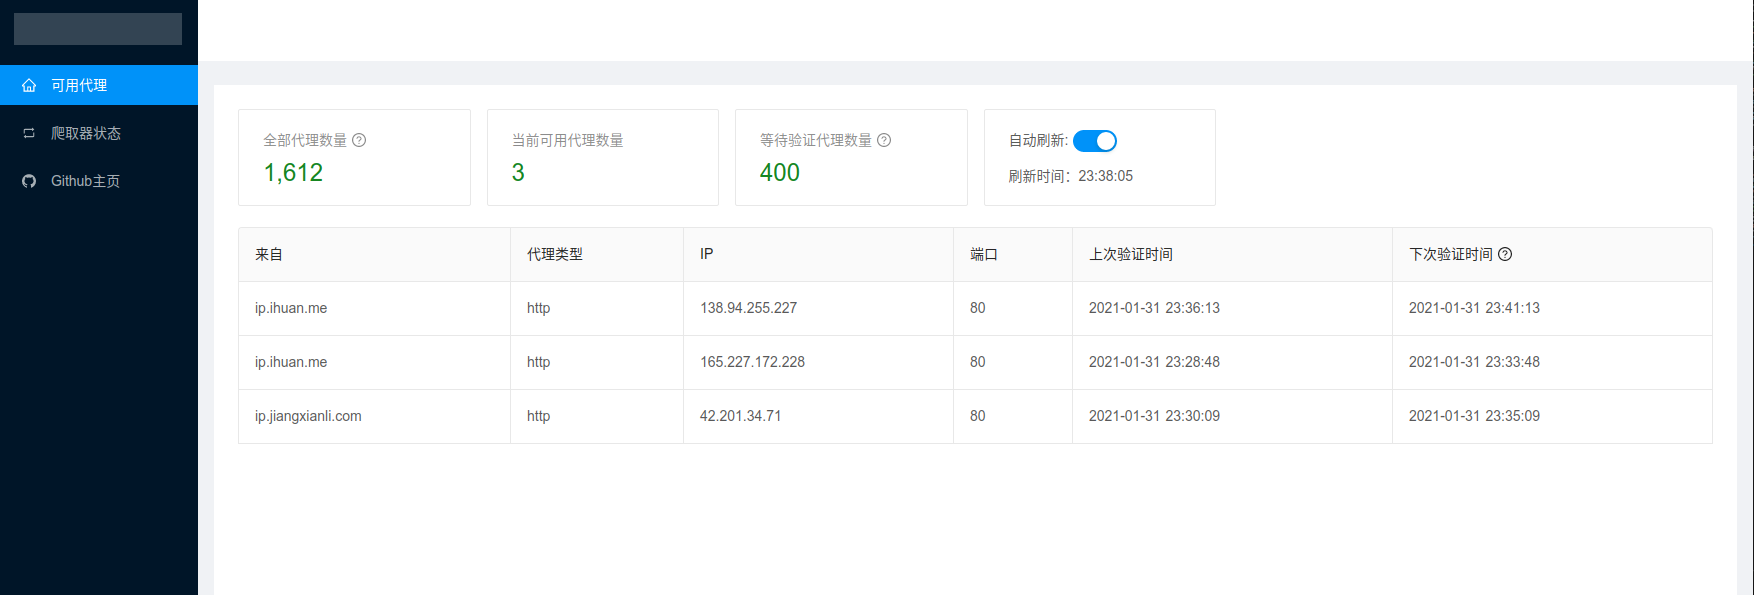
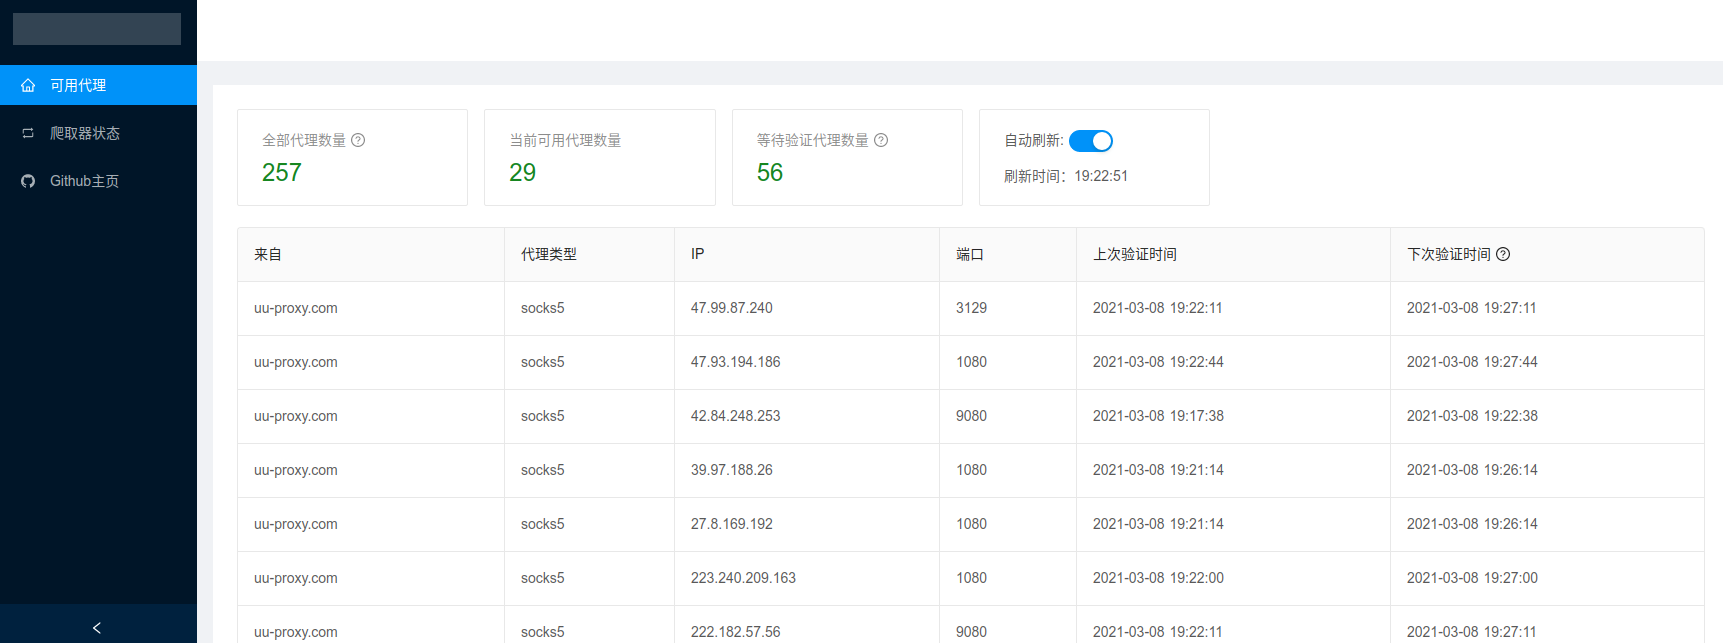
update README.md

diff --git a/README.md b/README.md
@@ -19,6 +19,8 @@
 
 项目Demo：[http://chenyu0x00.com:8888/](http://chenyu0x00.com:8888/)
 
+**2021年3月8日测试，项目运行半小时后，支持访问HTTPS的代理有40+，支持访问HTTP的代理有100+。**
+
 如果你知道有好用的代理源，或者是发现本项目存在一些问题，欢迎通过Issues和我们讨论。
 
 ## WEB管理界面截图
